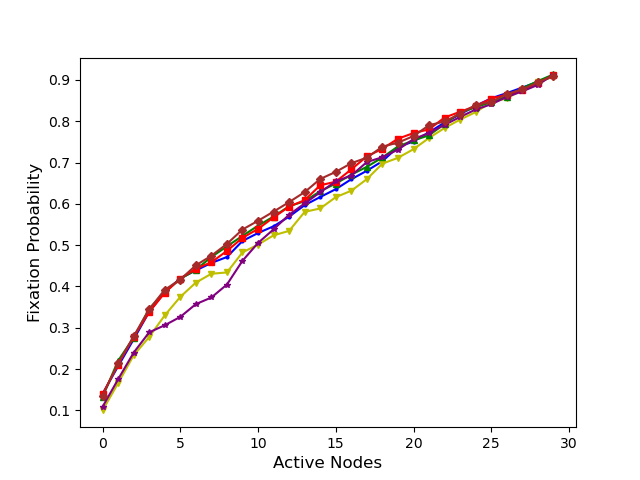
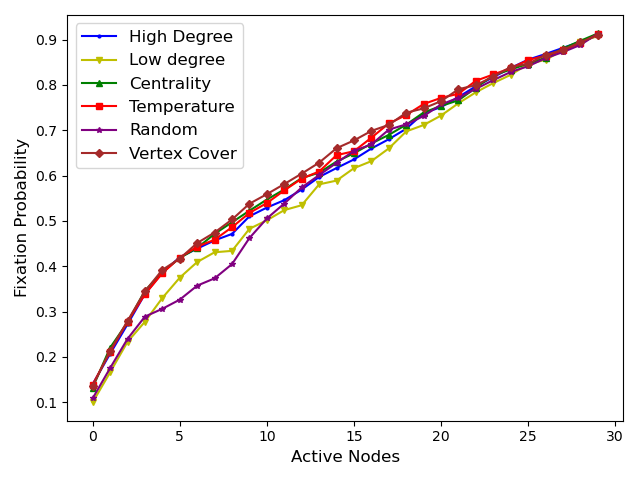
Weird experiments on cycle

diff --git a/Pretty_Plot.py b/Pretty_Plot.py
@@ -6,7 +6,7 @@ def plot_heuristic_comparison_from_csv():
     #path_to_csv = 'C:\\Users\\joac1\\Downloads\\davis_southern_women_f_1.5_32_f_1.5.csv'
     #path_to_csv = 'C:\\Users\\joac1\\Documents\\Universitet\\6. Semester\\Bachelorprojekt\\Moran Process\\Experiments\\heuristic_expriments_on_larger_graphs\\Erdos Renyi\\with vertex cover\\erdos_renyi_p_0_1_1_50.csv'
     path_to_csv = 'C:\\Users\\joac1\\Documents\\Universitet\\6. Semester\\Bachelorprojekt\\Moran Process\\Experiments\\heuristic_expriments_on_larger_graphs\\barabasi_albert_graph\\barabasi_albert_n50_m3_f_1_50.csv'
-    path_to_csv = r'C:\Users\joac1\Documents\Universitet\6. Semester\Bachelorprojekt\Moran Process\Experiments\heuristic_expriments_on_larger_graphs\Erdos Renyi\with vertex cover\erdos_renyi_p_0_1_100_50.csv'
+    path_to_csv = r'C:\Users\joac1\Documents\Universitet\6. Semester\Bachelorprojekt\Moran Process\Experiments\heuristic_expriments_on_larger_graphs\Caveman\connected_caveman_f_10_30.csv'
     path_to_csv.replace('\\','\\\\')
 
     df = pd.read_csv(path_to_csv)
@@ -29,9 +29,9 @@ def plot_heuristic_comparison_from_csv():
     plt.xlabel('Active Nodes', fontsize = 12)
     plt.ylabel('Fixation Probability', fontsize = 12)
     #plt.title('Erdós Rényi', fontsize = 14)
-    plt.savefig(r'C:\Users\joac1\Documents\Universitet\6. Semester\Bachelorprojekt\Moran Process\Experiments\heuristic_expriments_on_larger_graphs\Erdos Renyi\Final\erdos_renyi_p_0_1_100_50.csv'.replace('\\','\\\\') + ".png")
-
     plt.legend(loc=2, prop={'size': 12})
+    plt.savefig(r'C:\Users\joac1\Documents\Universitet\6. Semester\Bachelorprojekt\Moran Process\Experiments\heuristic_expriments_on_larger_graphs\Caveman\Final\connected_caveman_f_10_30'.replace('\\','\\\\') + ".png")
+
     plt.show()
 
 def plot_star_data():
@@ -192,7 +192,7 @@ def plot_circle_choosing_strategies_txt():
 
 
 def plot_circle_choosing_strategy_performance_txt():
-    path_to_txt = 'C:\\Users\\joac1\\Documents\\Universitet\\6. Semester\\Bachelorprojekt\\Moran Process\\Circle_Graph_Experiments\\cycle_fitness_experiment\\cycle_experiments_f_[0.1, 0.2, 0.5, 1, 1.5, 10, 100]_g_size_50_setup_evenly_distributed.txt'
+    path_to_txt = 'C:\\Users\\joac1\\Documents\\Universitet\\6. Semester\\Bachelorprojekt\\Moran Process\\Circle_Graph_Experiments\\cycle_fitness_experiment\\cycle_experiments_f_[0.1, 0.2, 0.5, 1, 1.5, 10, 100]_g_size_50_setup_continuous.txt'
     df = pd.read_csv(path_to_txt, header = None)
 
     active_list = list(range(0,51))
@@ -272,13 +272,155 @@ def compose_plots():
     plt.show()
 
 
+def compare_individual_choosing_strategies():
+    path_to_continuous = 'C:\\Users\\joac1\\Documents\\Universitet\\6. Semester\\Bachelorprojekt\\Moran Process\\Circle_Graph_Experiments\\cycle_fitness_experiment\\cycle_experiments_f_[0.1, 0.2, 0.5, 1, 1.5, 10, 100]_g_size_50_setup_continuous.txt'
+    df_continuous = pd.read_csv(path_to_continuous, header = None)
+
+    path_to_dist = 'C:\\Users\\joac1\\Documents\\Universitet\\6. Semester\\Bachelorprojekt\\Moran Process\\Circle_Graph_Experiments\\cycle_fitness_experiment\\cycle_experiments_f_[0.1, 0.2, 0.5, 1, 1.5, 10, 100]_g_size_50_setup_evenly_distributed.txt'
+    df_dist = pd.read_csv(path_to_dist, header = None)
+
+    active_list = list(range(0,51))
+
+    f_con_01 = df_continuous.loc[0].values.tolist()
+    f_con_01[0] = float(f_con_01[0][24:])
+
+    f_dist_01 = df_dist.loc[0].values.tolist()
+    f_dist_01[0] = float(f_dist_01[0][24:])
+
+    plt.plot(active_list,f_con_01, label='Continuous',color='b', marker='.',markersize = 7, markevery=5)
+    plt.plot(active_list,f_dist_01, label='Evenly Distributed', color='y', marker='v', markersize = 7, markevery=5)
+
+    plt.xlabel('Active Nodes', fontsize = 12)
+    plt.ylabel('Fixation Probability', fontsize = 12)
+    #plt.axis([0, 30, 0, 0.8])
+    plt.legend(loc=2, prop={'size': 12})
+    plt.show()
+
+
+
+    f_con_02 = df_continuous.loc[3].values.tolist()
+    f_con_02[0] = float(f_con_02[0][24:])
+
+    f_dist_02 = df_dist.loc[3].values.tolist()
+    f_dist_02[0] = float(f_dist_02[0][24:])
+
+    plt.plot(active_list,f_con_02, label='Continuous',color='b', marker='.',markersize = 7, markevery=5)
+    plt.plot(active_list,f_dist_02, label='Evenly Distributed', color='y', marker='v', markersize = 7, markevery=5)
+
+    plt.xlabel('Active Nodes', fontsize = 12)
+    plt.ylabel('Fixation Probability', fontsize = 12)
+    #plt.axis([0, 30, 0, 0.8])
+    plt.legend(loc=2, prop={'size': 12})
+    plt.show()
+
+
+    f_con_05 = df_continuous.loc[6].values.tolist()
+    f_con_05[0] = float(f_con_05[0][24:])
+
+    f_dist_05 = df_dist.loc[6].values.tolist()
+    f_dist_05[0] = float(f_dist_05[0][24:])
+
+    plt.plot(active_list,f_con_05, label='Continuous',color='b', marker='.',markersize = 7, markevery=5)
+    plt.plot(active_list,f_dist_05, label='Evenly Distributed', color='y', marker='v', markersize = 7, markevery=5)
+
+    plt.xlabel('Active Nodes', fontsize = 12)
+    plt.ylabel('Fixation Probability', fontsize = 12)
+    #plt.axis([0, 30, 0, 0.8])
+    plt.legend(loc=2, prop={'size': 12})
+    plt.show()
+
+
+
+    f_con_1 = df_continuous.loc[9].values.tolist()
+    f_con_1[0] = float(f_con_1[0][24:])
+
+    f_dist_1 = df_dist.loc[9].values.tolist()
+    f_dist_1[0] = float(f_dist_1[0][24:])
+
+    plt.plot(active_list,f_con_1, label='Continuous',color='b', marker='.',markersize = 7, markevery=5)
+    plt.plot(active_list,f_dist_1, label='Evenly Distributed', color='y', marker='v', markersize = 7, markevery=5)
+
+    plt.xlabel('Active Nodes', fontsize = 12)
+    plt.ylabel('Fixation Probability', fontsize = 12)
+    #plt.axis([0, 30, 0, 0.8])
+    plt.legend(loc=2, prop={'size': 12})
+    plt.show()
+
+
+
+    f_con_15 = df_continuous.loc[12].values.tolist()
+    f_con_15[0] = float(f_con_15[0][24:])
+
+    f_dist_15 = df_dist.loc[12].values.tolist()
+    f_dist_15[0] = float(f_dist_15[0][24:])
+
+    plt.plot(active_list,f_con_15, label='Continuous',color='b', marker='.',markersize = 7, markevery=5)
+    plt.plot(active_list,f_dist_15, label='Evenly Distributed', color='y', marker='v', markersize = 7, markevery=5)
+
+    plt.xlabel('Active Nodes', fontsize = 12)
+    plt.ylabel('Fixation Probability', fontsize = 12)
+    #plt.axis([0, 30, 0, 0.8])
+    plt.legend(loc=2, prop={'size': 12})
+    plt.show()
+
+
+    f_con_10 = df_continuous.loc[15].values.tolist()
+    f_con_10[0] = float(f_con_10[0][24:])
+
+    f_dist_10 = df_dist.loc[15].values.tolist()
+    f_dist_10[0] = float(f_dist_10[0][24:])
+
+    plt.plot(active_list,f_con_10, label='Continuous',color='b', marker='.',markersize = 7, markevery=5)
+    plt.plot(active_list,f_dist_10, label='Evenly Distributed', color='y', marker='v', markersize = 7, markevery=5)
+
+    plt.xlabel('Active Nodes', fontsize = 12)
+    plt.ylabel('Fixation Probability', fontsize = 12)
+    #plt.axis([0, 30, 0, 0.8])
+    plt.legend(loc=2, prop={'size': 12})
+    plt.show()
+
+
+
+    f_con_100 = df_continuous.loc[18].values.tolist()
+    f_con_100[0] = float(f_con_100[0][24:])
+
+    f_dist_100 = df_dist.loc[18].values.tolist()
+    f_dist_100[0] = float(f_dist_100[0][24:])
+
+    plt.plot(active_list,f_con_100, label='Continuous',color='b', marker='.',markersize = 7, markevery=5)
+    plt.plot(active_list,f_dist_100, label='Evenly Distributed', color='y', marker='v', markersize = 7, markevery=5)
+
+    plt.xlabel('Active Nodes', fontsize = 12)
+    plt.ylabel('Fixation Probability', fontsize = 12)
+    #plt.axis([0, 30, 0, 0.8])
+    plt.legend(loc=2, prop={'size': 12})
+    plt.show()
+
+
+    plt.plot(active_list,[x-y for x,y in zip(f_dist_01,f_con_01)], label='0.1',color='b', marker='.',markersize = 7, markevery=5)
+    plt.plot(active_list,[x-y for x,y in zip(f_dist_02,f_con_02)], label='0.2', color='y', marker='v', markersize = 7, markevery=5)
+    plt.plot(active_list,[x-y for x,y in zip(f_dist_05,f_con_05)], label='0.5', color='g', marker='^', markersize = 7, markevery=5)
+    plt.plot(active_list,[x-y for x,y in zip(f_dist_1,f_con_1)], label='1', color='r', marker='s', markersize = 7, markevery=5)
+    plt.plot(active_list,[x-y for x,y in zip(f_dist_15,f_con_15)], label='1.5', color='grey', marker='>', markersize = 7, markevery=5)
+    plt.plot(active_list,[x-y for x,y in zip(f_dist_10,f_con_10)], label='10', color='purple', marker='*', markersize = 7, markevery=5)
+    plt.plot(active_list,[x-y for x,y in zip(f_dist_100,f_con_100)], label='100', color='k', marker='x', markersize = 7, markevery=5)
+
+    plt.xlabel('Active Nodes', fontsize = 12)
+    plt.ylabel('Fixation Probability', fontsize = 12)
+    #plt.axis([0, 30, 0, 0.8])
+    plt.legend(loc=2, prop={'size': 12})
+    plt.show()
+
+
+
 
 if __name__ == "__main__":
 
-    plot_heuristic_comparison_from_csv()
+    #plot_heuristic_comparison_from_csv()
     #plot_from_txt()
     #plot_complete_data()
     #plot_star_data()
     #plot_circle_choosing_strategies_txt()
     #plot_circle_choosing_strategy_performance_txt()
     #compose_plots()
+    compare_individual_choosing_strategies()
